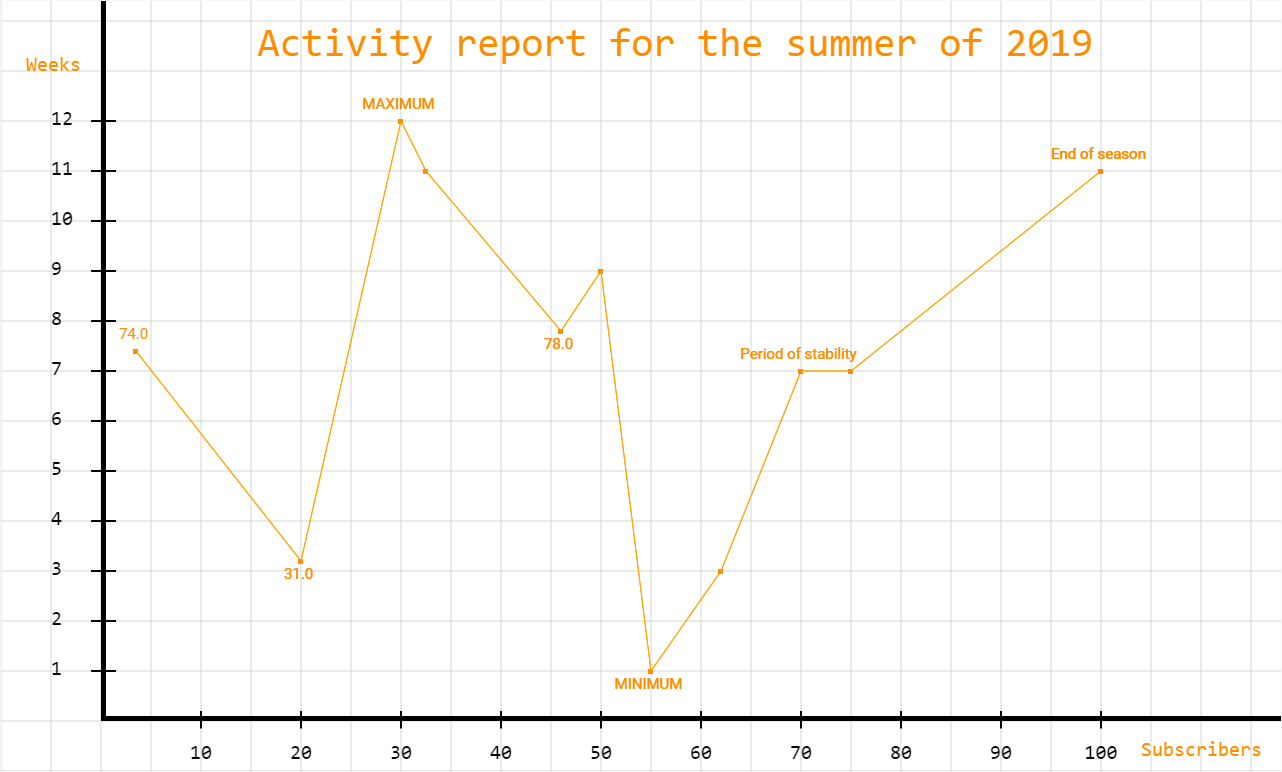
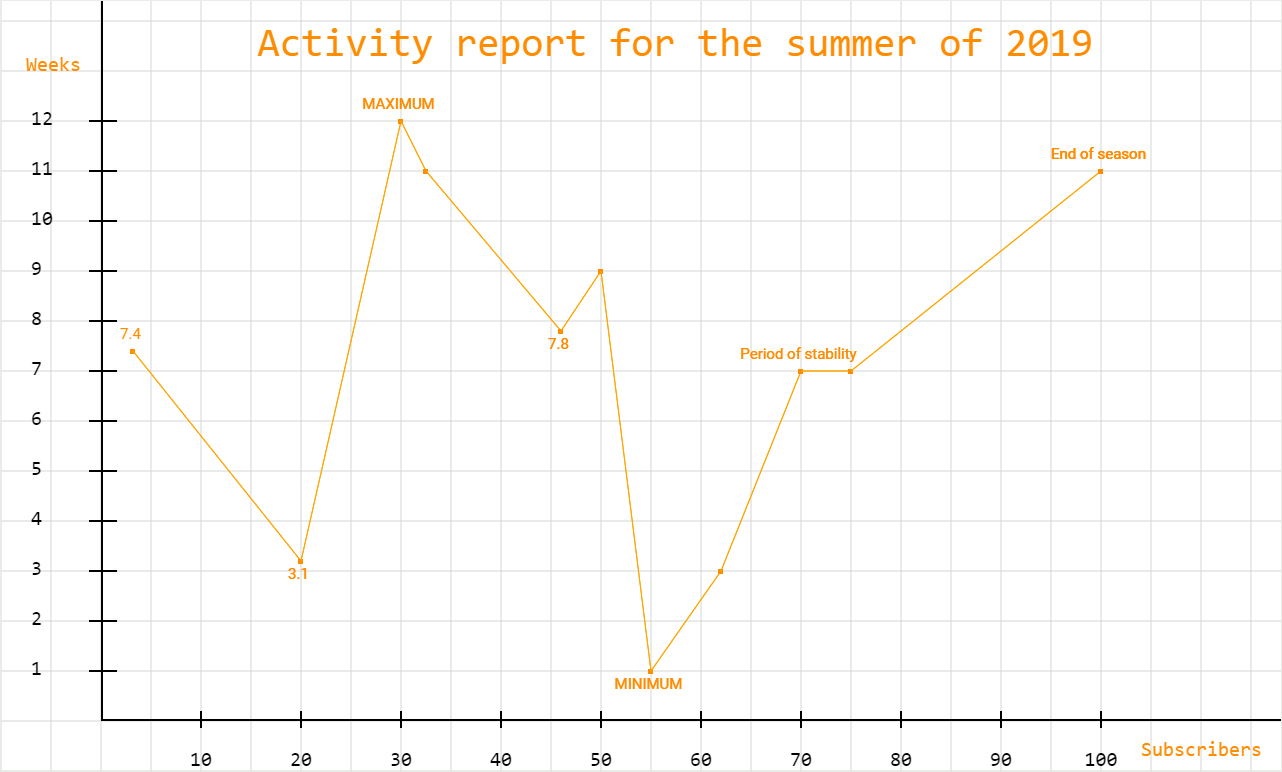
Completed

diff --git a/example/index.html b/example/index.html
@@ -82,11 +82,11 @@
 
 		graph.drawPoints({
 			points : [  
-			    [totalOffset + 30, 420, {text : "74.0", top : true}],
-			    [300, 210, {text : "31.0"}],
+			    [totalOffset + 30, 420, {text : "7.4", top : true}],
+			    [300, 210, {text : "3.1"}],
 			    [400, 650, {text : "MAXIMUM", top : true}],
 			    [425, 600],
-			    [560, 440, {text : "78.0"}],
+			    [560, 440, {text : "7.8"}],
 			    [600, 500],
 			    [650, 100, {text : "MINIMUM"}],
 			    [720, 200],

diff --git a/README.md b/README.md
@@ -51,9 +51,9 @@ This example will create a grid. You can set the size of a single cell, but it c
 
 ```javascript
 graph.grid({
-	size : 10,     
-	lineWidth : 1,     
-	color : 'purple'
+    size : 10,     
+    lineWidth : 1,     
+    color : 'purple'
 });
 ```
 
@@ -62,31 +62,31 @@ In this example, coordinate axes will be created. You can set marks on different
 
 ```javascript 
 graph.axes({
-	labels : {
-		horizontal : [10,20,30,40,50,60,70,80,90,100],
-	    vertical : [1,2,3,4,5,6,7,8,9,10,11,12]
-	},
-	distance : {
-		x : 100,
-		y : 50
-	},
-	text : {
-		x : {
-			fontSize : 20,
-			fontFamily : "Consolas"
-		},
-		y : {
-			fontSize : 20,
-			fontFamily : "Consolas"
-		}
-	},
-	separators : {
+    labels : {
+        horizontal : [10,20,30,40,50,60,70,80,90,100],
+        vertical : [1,2,3,4,5,6,7,8,9,10,11,12]
+    },
+    distance : {
+        x : 100,
+        y : 50
+    },
+    text : {
+        x : {
+            fontSize : 20,
+            fontFamily : "Consolas"
+        },
+        y : {
+            fontSize : 20,
+            fontFamily : "Consolas"
+        }
+    },
+    separators : {
         lineWidth : 2,       
         color : 'black'         
     },
     offset : {
-    	x : 100,
-    	y : 50
+        x : 100,
+        y : 50
     } 
 });
 ```
@@ -96,26 +96,26 @@ This is an example in which the graph of a function is plotted by given points. 
 
 ```javascript 
 graph.drawPoints({
-	points : [  
-	    [totalOffset + 30, 420, {text : "74.0", top : true}],
-	    [300, 210, {text : "31.0"}],
-	    [400, 650, {text : "MAXIMUM", top : true}],
-	    [425, 600],
-	    [560, 440, {text : "78.0"}],
-	    [600, 500],
-	    [650, 100, {text : "MINIMUM"}],
-	    [720, 200],
-	    [800, 400, {text : "Period of stability", top: true}],
-	    [850, 400],
-	    [1100, 600, {text : "End of season", top: true}],
-	],
+    points : [  
+        [totalOffset + 30, 420, {text : "74.0", top : true}],
+        [300, 210, {text : "31.0"}],
+        [400, 650, {text : "MAXIMUM", top : true}],
+        [425, 600],
+        [560, 440, {text : "78.0"}],
+        [600, 500],
+        [650, 100, {text : "MINIMUM"}],
+        [720, 200],
+        [800, 400, {text : "Period of stability", top: true}],
+        [850, 400],
+        [1100, 600, {text : "End of season", top: true}],
+    ],
     lineWidth : 1, 
     color : 'orange',
     pointsStyle : {
-    	size : 5,
-    	fontSize : 15,
-    	fontFamily : "Roboto",
-    	color : "darkorange"
+        size : 5,
+        fontSize : 15,
+        fontFamily : "Roboto",
+        color : "darkorange"
     }
 });
 ```
